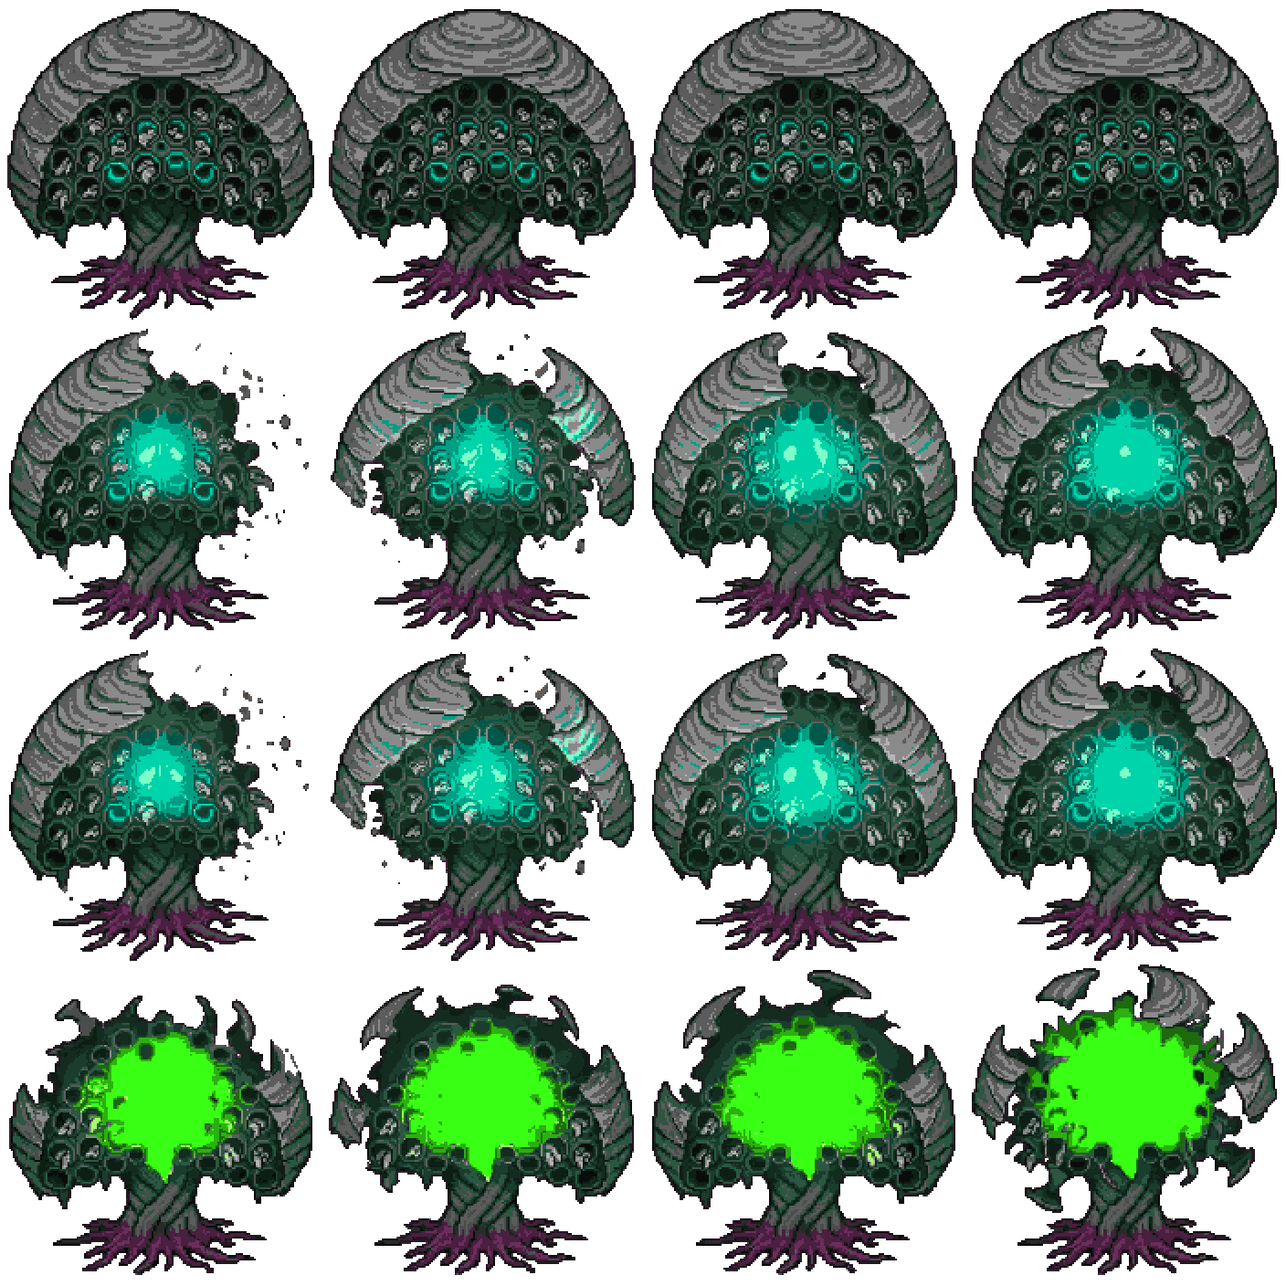
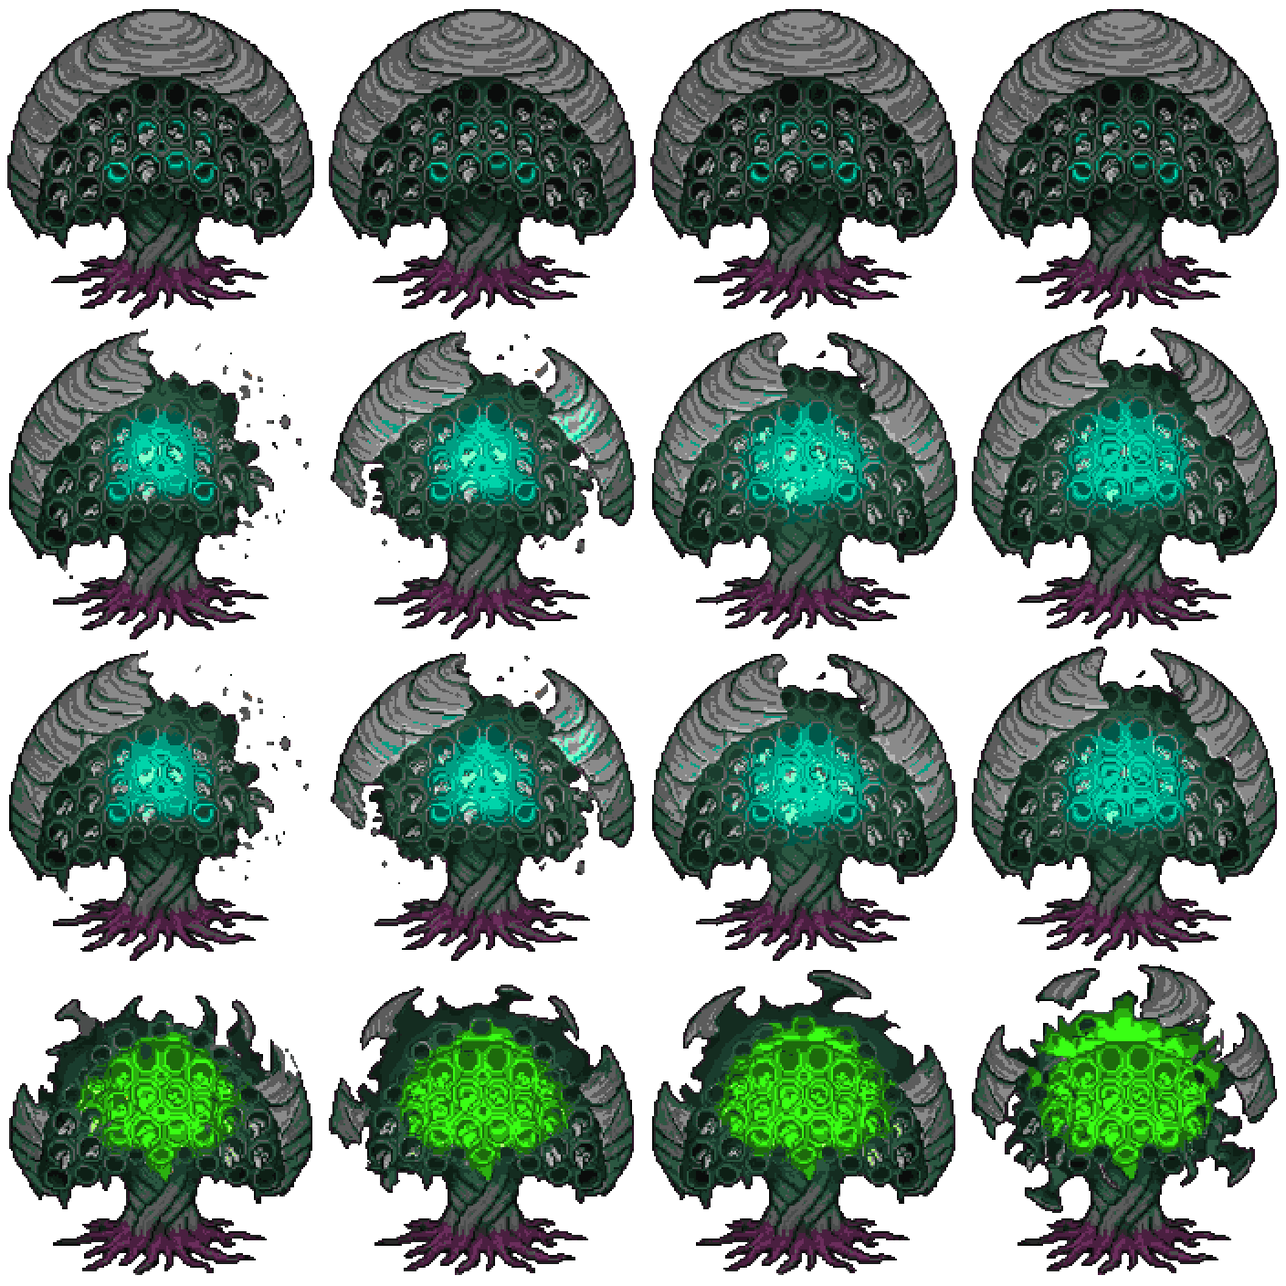
Улей: свет сквозь соты, и рядовые боссы растут от силы игрока
ПОЧЕМУ УЛЕЙ ОСТАВАЛСЯ «МЫЛЬНЫМ» после перегона через конвейер.

Первый замер увёл в сторону, и это стоит помнить: перепад между соседними
пикселями у Улья вышел 25 против 44-54 у всего чёткого, и напрашивался
вывод «арт плоский». Вывод НЕВЕРНЫЙ — Улей мерили по файлу, где каждый
арт-пиксель растянут в 2x2, то есть половина пар соседей попадала внутрь
одного блока и давала честный ноль. По арт-сетке у него 51, больше чем у
дерева. Спрайты с разным сжатием нельзя сравнивать по файлу.

Настоящая причина нашлась глазами. У листа четыре ряда — фазы по остатку
HP. В последнем генератор залил середину СПЛОШНЫМ зелёным пятном, и соты
со спорами пропадали целиком. Именно эту фазу игрок видит дольше всех: на
ней босса добивают. По исходнику проверено — пятно нарисовано таким
изначально, конвейер ни при чём.

Правильный ответ — перерисовать лист, и с PixelLab так и надо сделать.
Пока его нет, соты возвращены из НУЛЕВОГО ряда: ряды сняты с одного
рисунка и совпадают пиксель в пиксель, поэтому там, где в нулевом ряду
темно (нутро и обод соты), свечение приглушается. Свет идёт СКВОЗЬ соты, а
не поверх них. Живёт правка в normalize.mjs (PREFIX_FIXES), то есть
применяется на лету, а assets-raw остаётся нетронутым по правилу проекта.

РЯДОВЫЕ БОССЫ. Правило «чем сильнее игрок, тем толще босс» было заведено
при починке финала и осталось только у финала: рядовой рос лишь от времени,
одинаково для добившего все ветки и для взявшего четыре случайные карточки.
[…]

diff --git a/docs/js/config.js b/docs/js/config.js
@@ -1130,6 +1130,27 @@ export const CONFIG = {
     // десятую волну, то есть примерно раз в 8 минут; это дольше, чем живёт
     // средний забег, поэтому босса видели редко. Теперь раз в 4 минуты.
     bossEvery: 165, bossHpPerMin: 0.16,
+    // ЧЕМ СИЛЬНЕЕ ИГРОК, ТЕМ ТОЛЩЕ БОСС — то же правило, что у финала
+    // (spawn.final.levelFrom и родня), но своими числами.
+    //
+    // Живой игрой: «можно и других минибоссов тоже сделать более живучими,
+    // смотря на урон игрока». До этого рядовой босс рос ТОЛЬКО от времени
+    // (bossHpPerMin), то есть одинаково и для того, кто добил все ветки, и
+    // для того, кто взял четыре случайные карточки. Разброс силы к середине
+    // забега — кратный, поэтому один и тот же босс одному был стеной, другому
+    // не успевал доиграть появление.
+    //
+    // Считается по УРОВНЮ, а не по урону: уровень игрок набирает сам, его
+    // нельзя случайно получить, и по нему видно, насколько далеко он зашёл.
+    //
+    // levelFrom 8 — примерный уровень к первому боссу (165-я секунда). Ниже
+    // прибавки нет вовсе: отстающему игроку достаётся базовый босс, и это
+    // намеренно — догонять его должно быть легче, а не труднее.
+    //
+    // cap 1.9 против 2 у финала, и разница тут смысловая: рядовой босс —
+    // помеха на пути, финал — стена. Потолок ниже, чтобы очередной босс не
+    // превращался в тот же бой, что последний.
+    bossLevelFrom: 8, bossLevelStep: 0.05, bossLevelCap: 1.9,
     // ОЧЕРЕДЬ БОССОВ по кругу: 2:45, 5:30, 8:15, дальше сначала. Раньше здесь
     // стояло «каждый второй — Сердцевина» отдельным числом, и третьего босса
     // было некуда вписать, не переписав условие в SpawnSystem.

diff --git a/docs/js/systems/spawnSystem.js b/docs/js/systems/spawnSystem.js
@@ -203,7 +203,7 @@ export class SpawnSystem {
     if(this.finalSpawned) return null;
 
     // Босс идёт вне очереди и вне затишья: он и есть главное событие забега
-    const boss=this.tryBoss(enemies);
+    const boss=this.tryBoss(enemies,player);
     if(boss) return boss;
 
     if(this.time<CONFIG.spawn.graceTime) return null;
@@ -237,7 +237,10 @@ export class SpawnSystem {
     return null;
   }
 
-  tryBoss(enemies){
+  // player нужен только для прибавки по уровню. Необязательный: без него
+  // босс выходит базовым, и это правильное поведение по умолчанию — так же
+  // устроен tryFinal.
+  tryBoss(enemies,player=null){
     const S=CONFIG.spawn;
     if(this.time<(this.bossesSpawned+1)*S.bossEvery) return null;
     if(enemies.some(e=>e instanceof Boss&&!e.dead)) return null;
@@ -256,8 +259,13 @@ export class SpawnSystem {
     const p=this.camera.pointOutside(S.bossSpawnMargin);
     const boss=new Boss(p.x,p.y,type);
     // Босс четвёртой минуты и босс двадцатой — это разные бои
-    const k=1+Math.max(0,this.time-S.bossEvery)/60*S.bossHpPerMin;
-    boss.maxHp*=k; boss.hp=boss.maxHp; boss.damage*=this.scale().damage;
+    const byTime=1+Math.max(0,this.time-S.bossEvery)/60*S.bossHpPerMin;
+    // …а босс у сильного игрока и у слабого — тоже разные бои. Раньше этой
+    // строки здесь не было, и рядовой босс рос только от времени: одинаково
+    // и для добившего все ветки, и для взявшего четыре случайные карточки.
+    const lv=Math.max(0,(player?.level||1)-(S.bossLevelFrom||8));
+    const byLevel=Math.min(S.bossLevelCap||1.9,1+lv*(S.bossLevelStep||0.05));
+    boss.maxHp*=byTime*byLevel; boss.hp=boss.maxHp; boss.damage*=this.scale().damage;
     return {type:"boss",boss};
   }
 

diff --git a/docs/HANDOFF.md b/docs/HANDOFF.md
@@ -699,6 +699,39 @@ R — рестарт, M — звук (он же гасит музыку).
 перегонять картинку.** Числа в конфиге и зерно в файле связаны, и связь эта
 односторонняя — конфиг про файл не знает.
 
+### …и всё равно остался «мыльным». Дело было не в зерне
+
+Живой игрой, уже после этой правки: «последний босс всё ещё мыльный, хотя я
+обновил страницу». Обновил — значит перегон он получил, а мыло осталось.
+
+Первый замер увёл в сторону, и это стоит записать: перепад между соседними
+пикселями у Улья вышел 25 против 44–54 у всего, что выглядит чётко. Вывод
+напрашивался — «арт плоский». Вывод был НЕВЕРНЫЙ. Улей меряли по файлу, где
+каждый арт-пиксель растянут в 2×2, то есть половина пар соседей попадала
+внутрь одного блока и давала честный ноль. По арт-сетке у него 51 — больше,
+чем у дерева. **Спрайты, прошедшие разное сжатие, нельзя сравнивать по
+файлу: сначала снять растяжение, потом мерить.**
+
+Настоящая причина нашлась глазами, а не числом. У листа четыре ряда — фазы по
+остатку здоровья, чем меньше HP, тем ярче ядро. В последнем ряду генератор
+залил середину СПЛОШНЫМ зелёным пятном, и соты со спорами — единственное, что
+делает Улей Ульем, — пропадали целиком. Именно эту фазу игрок видит дольше
+всех: на ней босса добивают.
+
+Проверено по исходнику: пятно нарисовано таким изначально (12905 оттенков на
+участке, и все — один зелёный). Конвейер ни при чём.
+
+Правильный ответ — перерисовать лист, и когда будет PixelLab, так и надо
+сделать. Пока его нет, соты возвращены из НУЛЕВОГО ряда: ряды сняты с одного
+рисунка и совпадают пиксель в пиксель, поэтому там, где в нулевом ряду темно
+(нутро и обод соты), свечение приглушается. Свет после этого идёт СКВОЗЬ
+соты, а не поверх них.
+
+Живёт правка в `tools/normalize.mjs`, секция `PREFIX_FIXES` — то есть
+применяется на лету при каждой сборке, а `assets-raw` остаётся нетронутым по
+правилу проекта. Перерисуете лист — удалите оттуда одну запись, и всё
+вернётся к исходнику.
+
 Заодно вскрылось, что конвейер тащил в игру ИСХОДНИКИ. Файл с хвостом `_src`
 — это образец, с которого рисовался лист (у Улья кадр 1696x2528 весом в
 мегабайт); конвейер обходит `assets-raw` целиком и пишет в `docs` всё, что
@@ -835,6 +868,64 @@ R — рестарт, M — звук (он же гасит музыку).
 Отложено: правило проекта прямо говорит, что единственный именной бой игры не
 должен утонуть в толпе, а турели добавляют к выводку ещё и цели. Звучит
 интереснее, чем играется.
+
+---
+
+## РЯДОВЫЕ БОССЫ ТЕПЕРЬ ТОЖЕ РАСТУТ ОТ СИЛЫ ИГРОКА
+
+Живой игрой: «можно и других минибоссов тоже сделать более живучими, смотря
+на урон игрока».
+
+Просьба точная: правило «чем сильнее игрок, тем толще босс» было заведено при
+починке финала, но осталось ТОЛЬКО у финала. Рядовой босс рос лишь от времени
+(`bossHpPerMin`) — одинаково и для добившего все ветки, и для взявшего четыре
+случайные карточки. Разброс силы к середине забега кратный, поэтому один и
+тот же босс одному был стеной, а другому не успевал доиграть появление.
+
+Теперь `tryBoss` считает то же, что `tryFinal`, своими числами:
+`bossLevelFrom: 8, bossLevelStep: 0.05, bossLevelCap: 1.9`. Потолок ниже
+финального (1.9 против 2) намеренно: рядовой босс — помеха на пути, финал —
+стена, и очередной босс не должен превращаться в тот же бой, что последний.
+
+Что из этого выходит при типичных уровнях (арифметика проверена расчётом, а
+последняя строка — прогоном):
+
+| сек | босс | было | стало | |
+|---|---|---|---|---|
+| 165 | Материнская Капля | 800 | 800 | +0% |
+| 330 | Мицелиевая Сердцевина | 1728 | 2074 | +20% |
+| 495 | Споровый Улей | 3760 | 5076 | +35% |
+| 660 | Материнская Капля | 1856 | 2784 | +50% |
+| 825 | Мицелиевая Сердцевина | 3312 | 5465 | +65% |
+
+**Первый босс не изменился, и это не недоделка.** Ниже `levelFrom` прибавки
+нет вовсе: игроку, который отстаёт, достаётся базовый босс. Догонять должно
+быть легче, а не труднее.
+
+Прогоном на 330-й секунде: уровень 1 и 8 → 1728 HP (ровно как раньше),
+уровень 16 → 2419, уровень 25 → 3283 (упёрся в потолок).
+
+### Чего измерить НЕ удалось, и почему это здесь написано
+
+Хотелось замерить не HP, а СКОЛЬКО СЕКУНД босс живёт под огнём — число,
+которое и чувствует игрок. Не вышло, и обе причины стоит знать заранее:
+
+- **карточки прокачки не поднимают уровень.** `generateCards` +
+  `applyUpgrade` двадцать четыре раза дают игрока с двадцатью четырьмя
+  улучшениями и уровнем 1 — уровень растёт от ОПЫТА. Для проверки прибавки по
+  уровню его надо ставить прямо (`GAME.player.level = 16`);
+- **после `jumpTo` бот не стреляет** — замер показал 0 урона в секунду. Босс
+  выходит за краем видимости и стоит на месте, и даже поставленный вплотную
+  игрок в прогоне ведёт себя не как живой.
+
+Поэтому числа выше получены расчётом и проверены по факту появления босса, а
+не боем. **Сколько секунд бой длится на самом деле — проверяется только
+игрой.** Если окажется долго, крутить надо `bossLevelCap`, а не `Step`:
+потолок бьёт по сильному игроку, шаг — по всем сразу.
+
+Ещё одна ловушка того же прогона: `jumpTo` пересчитывает `bossesSpawned` от
+времени, поэтому прыжок на 320-ю секунду означает «первый босс уже был, второй
+не раньше 330-й». Прыгать надо чуть раньше порога (326) и ждать выхода.
 
 ---
 
